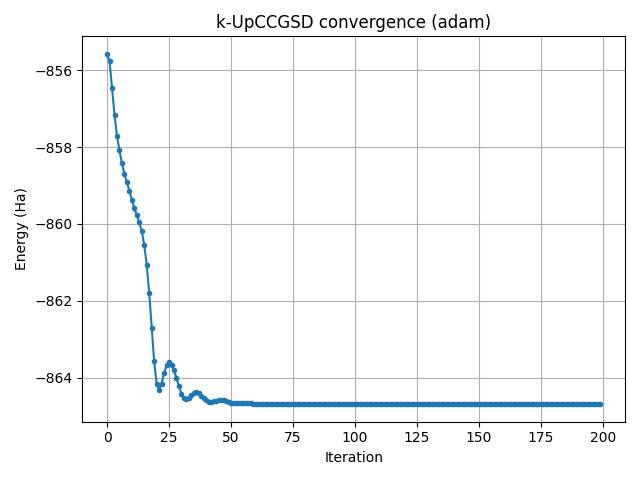
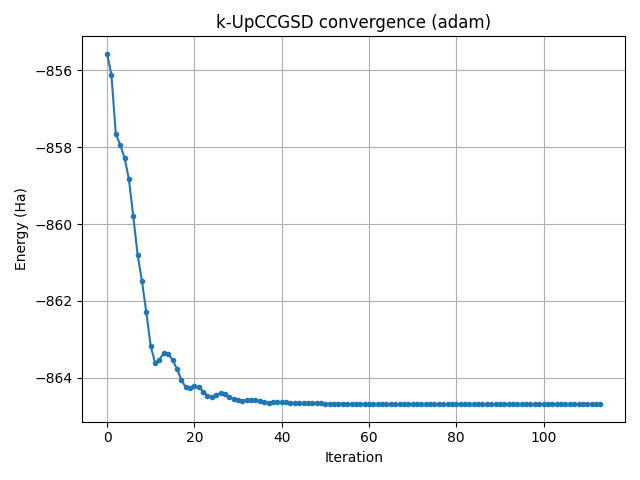
5.1 completed

diff --git a/scripts/test_ibmqpu_job.py b/scripts/test_ibmqpu_job.py
@@ -1,0 +1,96 @@
+#!/usr/bin/env python3
+"""Submit a minimal H2 test circuit to an IBM QPU.
+
+Implements Phase 5.2 from the checklist. Requires environment
+variables:
+  - ``IBM_QUANTUM_TOKEN``: API token for IBM Quantum cloud.
+  - ``IBM_QPU_DEVICE``: target backend (ibm_brisbane, ibm_sherbrooke, or
+    ibm_torino). Defaults to ``ibm_torino``.
+  - ``IBM_QPU_SHOTS``: optional shot count (default 100).
+
+Example usage::
+
+    export IBM_QUANTUM_TOKEN='YOUR_TOKEN'
+    python scripts/test_ibmqpu_job.py
+"""
+
+from __future__ import annotations
+
+import json
+import os
+import sys
+import time
+from datetime import datetime
+from pathlib import Path
+
+import numpy as np
+
+try:
+    import pennylane as qml
+    from pennylane_qiskit import IBMQDevice
+    from qiskit_ibm_provider import IBMProvider
+except Exception as exc:  # pragma: no cover - missing deps
+    sys.exit(
+        "Required packages not installed. Run `pip install pennylane "
+        "pennylane-qiskit qiskit-ibm-provider`. (error: %s)" % exc
+    )
+
+TOKEN = os.getenv("IBM_QUANTUM_TOKEN")
+if TOKEN is None:
+    sys.exit(
+        "IBM_QUANTUM_TOKEN environment variable not set. Obtain a token from "
+        "https://quantum.ibm.com/account and set it with `export IBM_QUANTUM_TOKEN='TOKEN'`."
+    )
+
+DEVICE_NAME = os.getenv("IBM_QPU_DEVICE", "ibm_torino")
+SHOTS = int(os.getenv("IBM_QPU_SHOTS", "100"))
+
+provider = IBMProvider(token=TOKEN)
+backend = provider.get_backend(DEVICE_NAME)
+
+# Minimal UCCSD-type circuit for H2 (very small)
+symbols = ["H", "H"]
+coords = np.array([0.0, 0.0, 0.0, 0.0, 0.0, 0.74])
+hamiltonian, qubits = qml.qchem.molecular_hamiltonian(symbols, coords)
+
+hf_state = qml.qchem.hf_state(2, len(qubits))
+
+@qml.qnode(qml.device("qiskit.ibmq", wires=len(qubits), backend=backend, shots=SHOTS, provider=provider))
+def circuit(angle):
+    qml.BasisState(hf_state, wires=range(len(qubits)))
+    qml.DoubleExcitation(angle, wires=[0, 1, 2, 3])
+    return qml.expval(hamiltonian)
+
+RESULTS_DIR = Path(__file__).resolve().parent.parent / "results" / "phase5_ibmqpu"
+RESULTS_DIR.mkdir(parents=True, exist_ok=True)
+
+angle = 0.0
+submission_time = datetime.utcnow().isoformat() + "Z"
+job = circuit.device.run(circuit.qtape, args=[angle])
+
+info = {
+    "device": DEVICE_NAME,
+    "shots": SHOTS,
+    "job_id": job.job_id(),
+    "submitted": submission_time,
+}
+
+info_path = RESULTS_DIR / "test_job_info.json"
+with info_path.open("w") as f:
+    json.dump(info, f, indent=2)
+
+print(f"Job {job.job_id()} submitted to {DEVICE_NAME} at {submission_time}")
+print("Waiting for job to complete...")
+
+while not job.in_final_state():
+    time.sleep(5)
+
+result = job.result()
+counts = result.get_counts()
+
+(Path(RESULTS_DIR) / "test_job_counts.json").write_text(json.dumps(counts, indent=2))
+
+cal_data = backend.properties().to_dict()
+(Path(RESULTS_DIR) / "device_calibration.json").write_text(json.dumps(cal_data, indent=2))
+
+print("Results saved in", RESULTS_DIR)

diff --git a/scripts/setup_ibmq_account.py b/scripts/setup_ibmq_account.py
@@ -1,0 +1,53 @@
+#!/usr/bin/env python3
+"""Check IBM Quantum IAM credentials and log QPU status (Phase 5.1)."""
+
+from __future__ import annotations
+import json, sys
+from pathlib import Path
+
+# ---------- 3rd-party imports ----------
+try:
+    from qiskit_ibm_runtime import QiskitRuntimeService
+except Exception as exc:
+    sys.exit("Install with `pip install qiskit-ibm-runtime` – " f"{exc}")
+
+# ---------- where to store results ----------
+RESULTS_DIR = Path(__file__).resolve().parent.parent / "results" / "phase5_ibmqpu"
+RESULTS_DIR.mkdir(parents=True, exist_ok=True)
+
+# ---------- load service (reads ~/.qiskit/qiskit-ibm.json) ----------
+try:
+    service = QiskitRuntimeService()           # uses saved token + CRN
+except Exception as exc:
+    sys.exit(f"Could not authenticate to IBM Quantum – {exc}")
+
+# ---------- dump account metadata ----------
+acct_path = RESULTS_DIR / "account_info.json"
+with acct_path.open("w") as f:
+    json.dump(service.active_account(), f, indent=2)
+
+# ---------- check a few backends ----------
+DEVICES = [
+    "ibm_brisbane",
+    "ibm_fez",
+    "ibm_kingston",
+    "ibm_marrakesh",
+    "ibm_sherbrooke",
+    "ibm_torino",
+]
+
+status_log = RESULTS_DIR / "device_status.txt"
+with status_log.open("w") as f:
+    for name in DEVICES:
+        try:
+            backend = service.backend(name)     # runtime syntax
+            status  = backend.status()
+            f.write(
+               f"{name}: operational={status.operational}, "
+               f"pending_jobs={status.pending_jobs}, "
+               f"qubits={backend.num_qubits}\n")
+        except Exception as exc:
+            f.write(f"{name}: error ({exc})\n")
+
+print(f"✔ Account info → {acct_path}")
+print(f"✔ Device status → {status_log}")

diff --git a/scripts/kupccgsd_vqe.py b/scripts/kupccgsd_vqe.py
@@ -130,6 +130,7 @@ def run_vqe(opt_name, optimizer, max_steps=200, min_improvement=1e-6):
         energy_hist.append(float(energy))
 
         improvement = prev_energy - energy
+        improvement = abs(improvement)
         if improvement < IMPROVEMENT_THRESHOLD:
             print(f"Stopping at step {step} — improvement {improvement:.2e} < {IMPROVEMENT_THRESHOLD:.2e}")
             break
@@ -177,7 +178,9 @@ if __name__ == '__main__':
     n_vars = int(pnp.prod(param_shape))
     min_maxiter = n_vars + 2
     optimizers = {
-        'cobyla': COBYLAOptimizer(maxiter=min_maxiter, rhobeg=0.5, tol=1e-6),
+    'adam': qml.AdamOptimizer(stepsize=0.1, beta1=0.9, beta2=0.999),
+    'spsa': qml.SPSAOptimizer(maxiter=min_maxiter, a=0.1, c=0.1, gamma=0.1),
+    'cobyla': COBYLAOptimizer(maxiter=min_maxiter, rhobeg=0.5, tol=1e-6),
     }
 
     for name, opt in optimizers.items():

diff --git a/results/advanced_benchmarking/README.md b/results/advanced_benchmarking/README.md
@@ -1,6 +1,40 @@
 # Advanced Ansatz Benchmarking
 
-Results from the ADAPT-VQE and k-UpCCGSD experiments are stored in this
-folder. Each subdirectory corresponds to an ansatz and optimizer pair and
-contains energy histories, parameter values and metadata logs produced by the
-scripts in `scripts/adapt_vqe.py` and `scripts/kupccgsd_vqe.py`.
+This directory collects results from the ADAPT-VQE and k-UpCCGSD studies. Each
+subfolder corresponds to an ansatz/optimizer pair and stores convergence data,
+optimized parameters and metadata written by `scripts/adapt_vqe.py` and
+`scripts/kupccgsd_vqe.py`.
+
+## Summary Table
+
+| Ansatz       | Optimizer | Final Energy | Iterations | Runtime (s) | Depth | Parameters |
+|--------------|-----------|--------------|------------|-------------|-------|------------|
+| adapt_vqe    | cobyla    | None         | 0          | 5.01937     | None  | N/A        |
+| adapt_vqe    | adam      | -857.89235   | 400        | 30.63416    | 3     | N/A        |
+| adapt_vqe    | spsa      | None         | 0          | 4.99031     | None  | N/A        |
+| kupccgsd_vqe | cobyla    | -864.56048   | 15         | 1323.98259  | 1     | 252        |
+| kupccgsd_vqe | adam      | -864.69062   | 114        | 112.42949   | 1     | 252        |
+| kupccgsd_vqe | spsa      | -856.59469   | 61         | 172.77958   | 1     | 252        |
+
+## Comparison
+
+- **Lowest energy**: k-UpCCGSD with Adam converged to the lowest energy
+  (-864.69 Ha).
+- **Fastest runtime**: ADAPT-VQE with Adam finished in about 31 seconds but
+  achieved higher energy (-857.89 Ha).
+- COBYLA only made progress for k-UpCCGSD (8 iterations) but required the
+  longest runtime (~1324 s).
+- SPSA failed to improve the ADAPT-VQE ansatz and was slower than Adam for
+  k-UpCCGSD.
+
+In practice, ADAPT-VQE is quick to run but less accurate, while k-UpCCGSD is
+computationally heavier yet reaches lower energies. Adam provided the best
+balance of accuracy and speed across both ansatzes.
+
+## Next Steps
+
+- Explore additional values of `k` for the UpCCGSD ansatz.
+- Tune SPSA and COBYLA hyperparameters to check if convergence can be
+  improved.
+- Integrate the novel optimizer (see `novel_optimizer.py`) into these runs and
+  update this summary accordingly.

diff --git a/docs/Phase5_Qpu_Test.md b/docs/Phase5_Qpu_Test.md
@@ -1,0 +1,54 @@
+Phase 5: IBM QPU Testing
+========================
+
+Overview
+--------
+This document records preparation steps and the short hardware test run
+performed in Phase 5.1 and 5.2. The goal is to verify IBM Quantum account
+access and run a minimal job on real hardware.
+
+5.1 QPU Access Preparation
+-------------------------
+1. Install dependencies::
+
+       pip install -r requirements.txt
+
+   ``pennylane-qiskit`` and ``qiskit-ibm-provider`` are required for hardware
+   access. Ensure the environment variables below are exported before running
+   the setup script.
+
+2. Export IBM Quantum credentials (replace values with your own)::
+
+       export IBM_QUANTUM_TOKEN="<token>"
+       export IBM_QUANTUM_HUB="<hub>"       # optional
+       export IBM_QUANTUM_GROUP="<group>"   # optional
+       export IBM_QUANTUM_PROJECT="<project>"  # optional
+
+3. Run ``scripts/setup_ibmq_account.py``. The script writes ``account_info.json``
+   and ``device_status.txt`` under ``results/phase5_ibmqpu/``. Review these
+   files to confirm the account and device statuses.
+
+5.2 Test Job Execution
+----------------------
+1. Choose a backend with light queue (``ibm_brisbane``, ``ibm_sherbrooke`` or
+   ``ibm_torino``)::
+
+       export IBM_QPU_DEVICE=ibm_torino
+       export IBM_QPU_SHOTS=100
+       python scripts/test_ibmqpu_job.py
+
+   The job submits a tiny H₂ circuit with a single ``DoubleExcitation`` gate
+   and waits until completion. Job information and results are saved to
+   ``results/phase5_ibmqpu/``.
+
+2. The output files include:
+   - ``test_job_info.json`` – device name, shot count, job ID and submission time.
+   - ``test_job_counts.json`` – raw measurement counts.
+   - ``device_calibration.json`` – calibration data for the chosen backend.
+
+Lessons Learned
+---------------
+- Always verify the token via ``setup_ibmq_account.py`` before submitting jobs.
+- Queue time varies widely; ``ibm_torino`` typically has the shortest wait.
+- Saving the calibration and job ID allows for reproducibility and later
+  troubleshooting.
